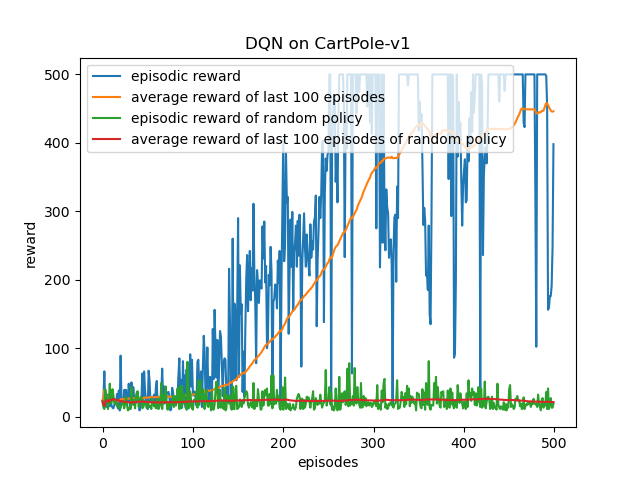
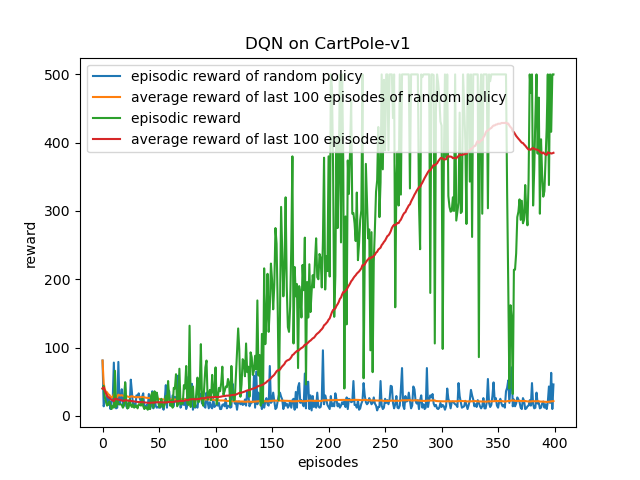
add a redo agent and turn off the episilon-greedy strategy

diff --git a/main.py b/main.py
@@ -3,6 +3,7 @@ from agent import *
 import matplotlib.pyplot as plt
 import collections
 from statistics import mean
+import random
 
 env_name = 'CartPole-v1'
 
@@ -10,12 +11,12 @@ def critic(agent, redo):
     env = gym.make(env_name)
     total_score = 0
     for _ in range(redo):
-        obs = env.reset()
+        obs, _ = env.reset()
         while True:
             action = agent.step(obs)
-            obs, reward, termination, _ = env.step(action)
+            obs, reward, termination, truncated, _ = env.step(action)
             total_score += reward
-            if termination:
+            if termination or truncated:
                 break
     return total_score
 
@@ -28,10 +29,10 @@ def random_policy(env, episode):
         total_reward = 0
         while True:
             action = random.choice(range(env.action_space.n))
-            obs, reward, termination, _ = env.step(action)
+            obs, reward, termination, truncated, _ = env.step(action)
             total_reward += reward
         
-            if termination:
+            if termination or truncated:
                 break
         total_rewards.append(total_reward)
         if len(rewards_queue) >= rewards_queue.maxlen:
@@ -50,7 +51,7 @@ def main():
     redo = 10
 
     # training parameters
-    episode = 500
+    episode = 400
     update_step = 20
     step = 0
 
@@ -72,13 +73,14 @@ def main():
 
 
     for i in range(episode):
-        obs = env.reset()
+        obs, _ = env.reset()
         total_reward = 0
         while True:
             # env.render()
             step += 1
+
             action = agent.step(obs)
-            next_obs, reward, termination, _ = env.step(action)
+            next_obs, reward, termination, truncated, _= env.step(action)
 
             replay_buffer.insert([obs, action, reward, next_obs, termination])
             total_reward += reward
@@ -88,7 +90,7 @@ def main():
 
             agent.train(replay_buffer)
 
-            if termination:
+            if termination or truncated:
                 break
                 
             if step % update_step == 0:
@@ -107,7 +109,9 @@ def main():
 
         # In the case of the cartpole game, since the upper bound of total_reward is 500, it will save the last agent's network which enables the agent to reach the reward of 500.
         if total_reward >= best_episode:
-            agent_score = critic(agent, redo)
+            redo_agent = Agent(action_dim=env.action_space.n, obs_dim=env.observation_space.shape[0], train_mode=False)
+            redo_agent.local_network.load_state_dict(agent.local_network.state_dict())
+            agent_score = critic(redo_agent, redo)
             if agent_score > candidate_score:
                 candidate_score = agent_score
                 best_episode = total_reward

diff --git a/display.py b/display.py
@@ -1,23 +1,23 @@
 import gym
 from agent import *
 
-env_name = 'LunarLander-v2'
+env_name = 'CartPole-v1'
 
 def main():
-    env = gym.make(env_name)
+    env = gym.make(env_name, render_mode='human')
 
     while True:
         agent = Agent(env.action_space.n, env.observation_space.shape[0], train_mode=False)
         agent.local_network.load_state_dict(torch.load(f'{env_name}_weights.pth'))
         agent.local_network.eval()
-        obs = env.reset()
+        obs, _ = env.reset()
         total_reward = 0
         while True:
             env.render()
             action = agent.step(obs)
-            obs, reward, termination, _ = env.step(action)
+            obs, reward, termination, truncated, _ = env.step(action)
             total_reward += reward
-            if termination:
+            if termination or truncated:
                 break
         print(total_reward)
 

diff --git a/recorder.py b/recorder.py
@@ -13,8 +13,8 @@ def main():
     agent.local_network.eval()
     while True:
         action = agent.step(obs)
-        obs, reward, termination, _ = env.step(action)
-        if termination:
+        obs, reward, termination, truncated, _ = env.step(action)
+        if termination or truncated: 
             break
     env.close()
 

diff --git a/agent.py b/agent.py
@@ -24,6 +24,7 @@ class Agent():
         self.batch_size = batch_size
         self.eps_low = eps_low
 
+
         self.loss_fn = nn.MSELoss()
         self.optim = torch.optim.Adam(self.local_network.parameters(), lr=1e-3)
 
